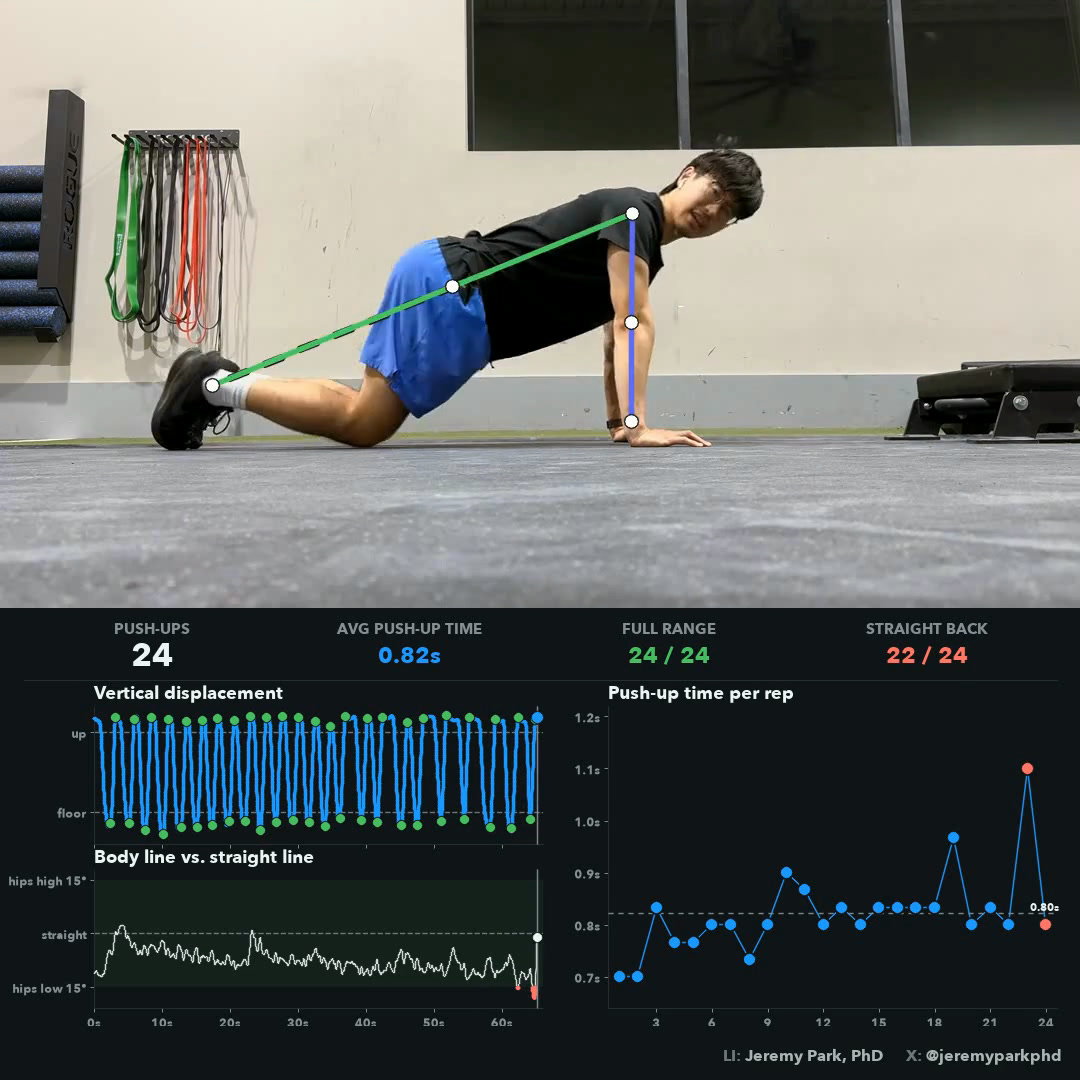
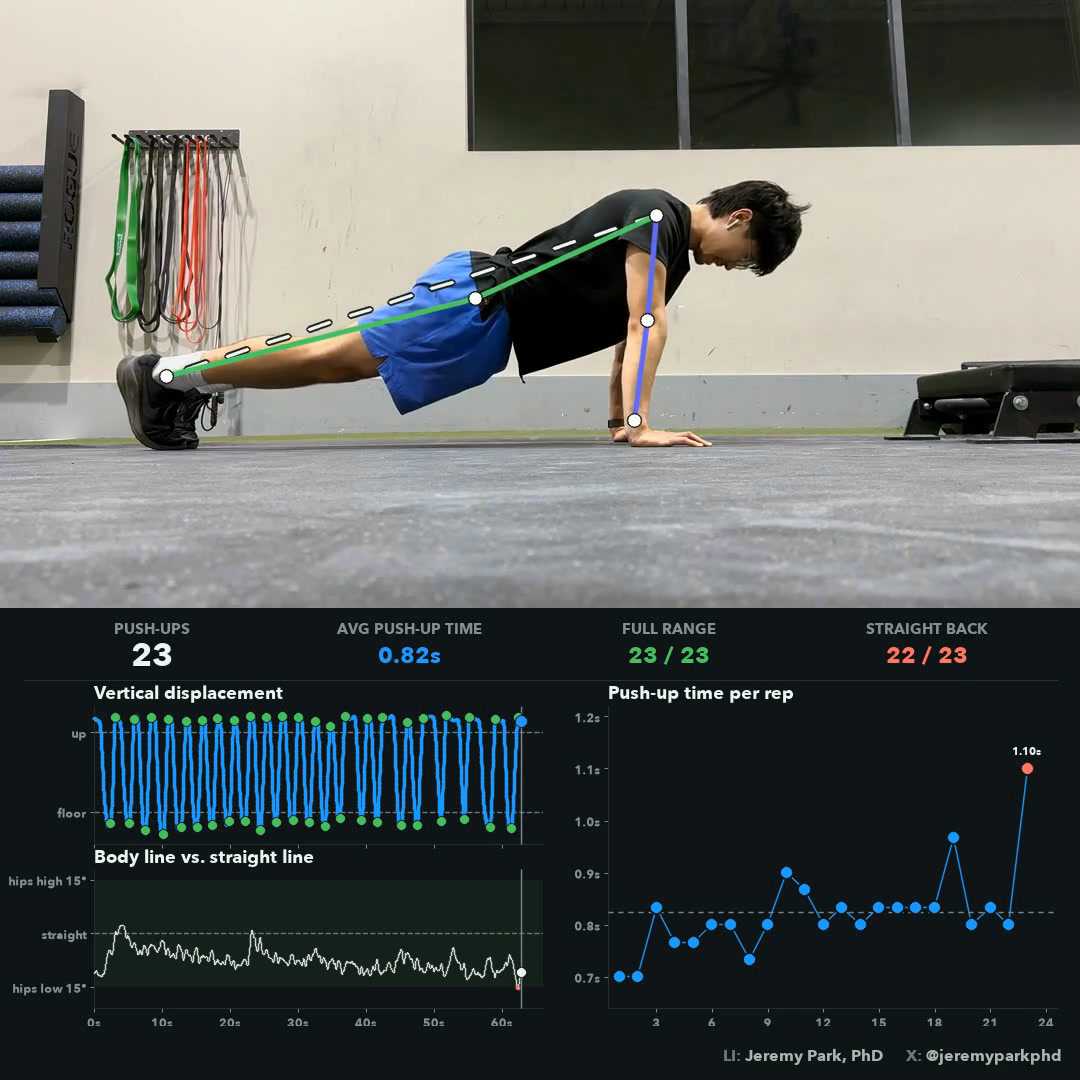
push_ups: thumbnail from just after rep 23

diff --git a/push_ups/README.md b/push_ups/README.md
@@ -15,7 +15,7 @@ The output is a 1080×1080 square (`EXPORT_SQUARE` in [`config.py`](config.py)).
 The panel has the live tallies, vertical displacement and the body line over
 time, and a dot per rep for the push-up time (the concentric).
 
-![A push-up set with a pose overlay on top and a live panel below: the rep count, 24 of 24 full range, 22 of 24 straight back, vertical displacement, the body line, and the push-up time per rep](readme_images/push_ups_demo_thumbnail.jpg)
+![A push-up set with a pose overlay on top and a live panel below: the rep count, 23 of 23 full range, 22 of 23 straight back, vertical displacement, the body line, and the push-up time per rep](readme_images/push_ups_demo_thumbnail.jpg)
 
 ## Run it
 

diff --git a/README.md b/README.md
@@ -47,7 +47,7 @@ Real-world computer vision demos.
 ### Push-Ups
 
 <p align="center">
-  <a href="push_ups/"><img src="push_ups/readme_images/push_ups_demo_thumbnail.jpg" width="600" alt="A push-up set with a pose overlay on top and a live panel below: the rep count, 24 of 24 full range, 22 of 24 straight back, vertical displacement, the body line, and the push-up time per rep"></a>
+  <a href="push_ups/"><img src="push_ups/readme_images/push_ups_demo_thumbnail.jpg" width="600" alt="A push-up set with a pose overlay on top and a live panel below: the rep count, 23 of 23 full range, 22 of 23 straight back, vertical displacement, the body line, and the push-up time per rep"></a>
 </p>
 
 ### Rock Climbing
